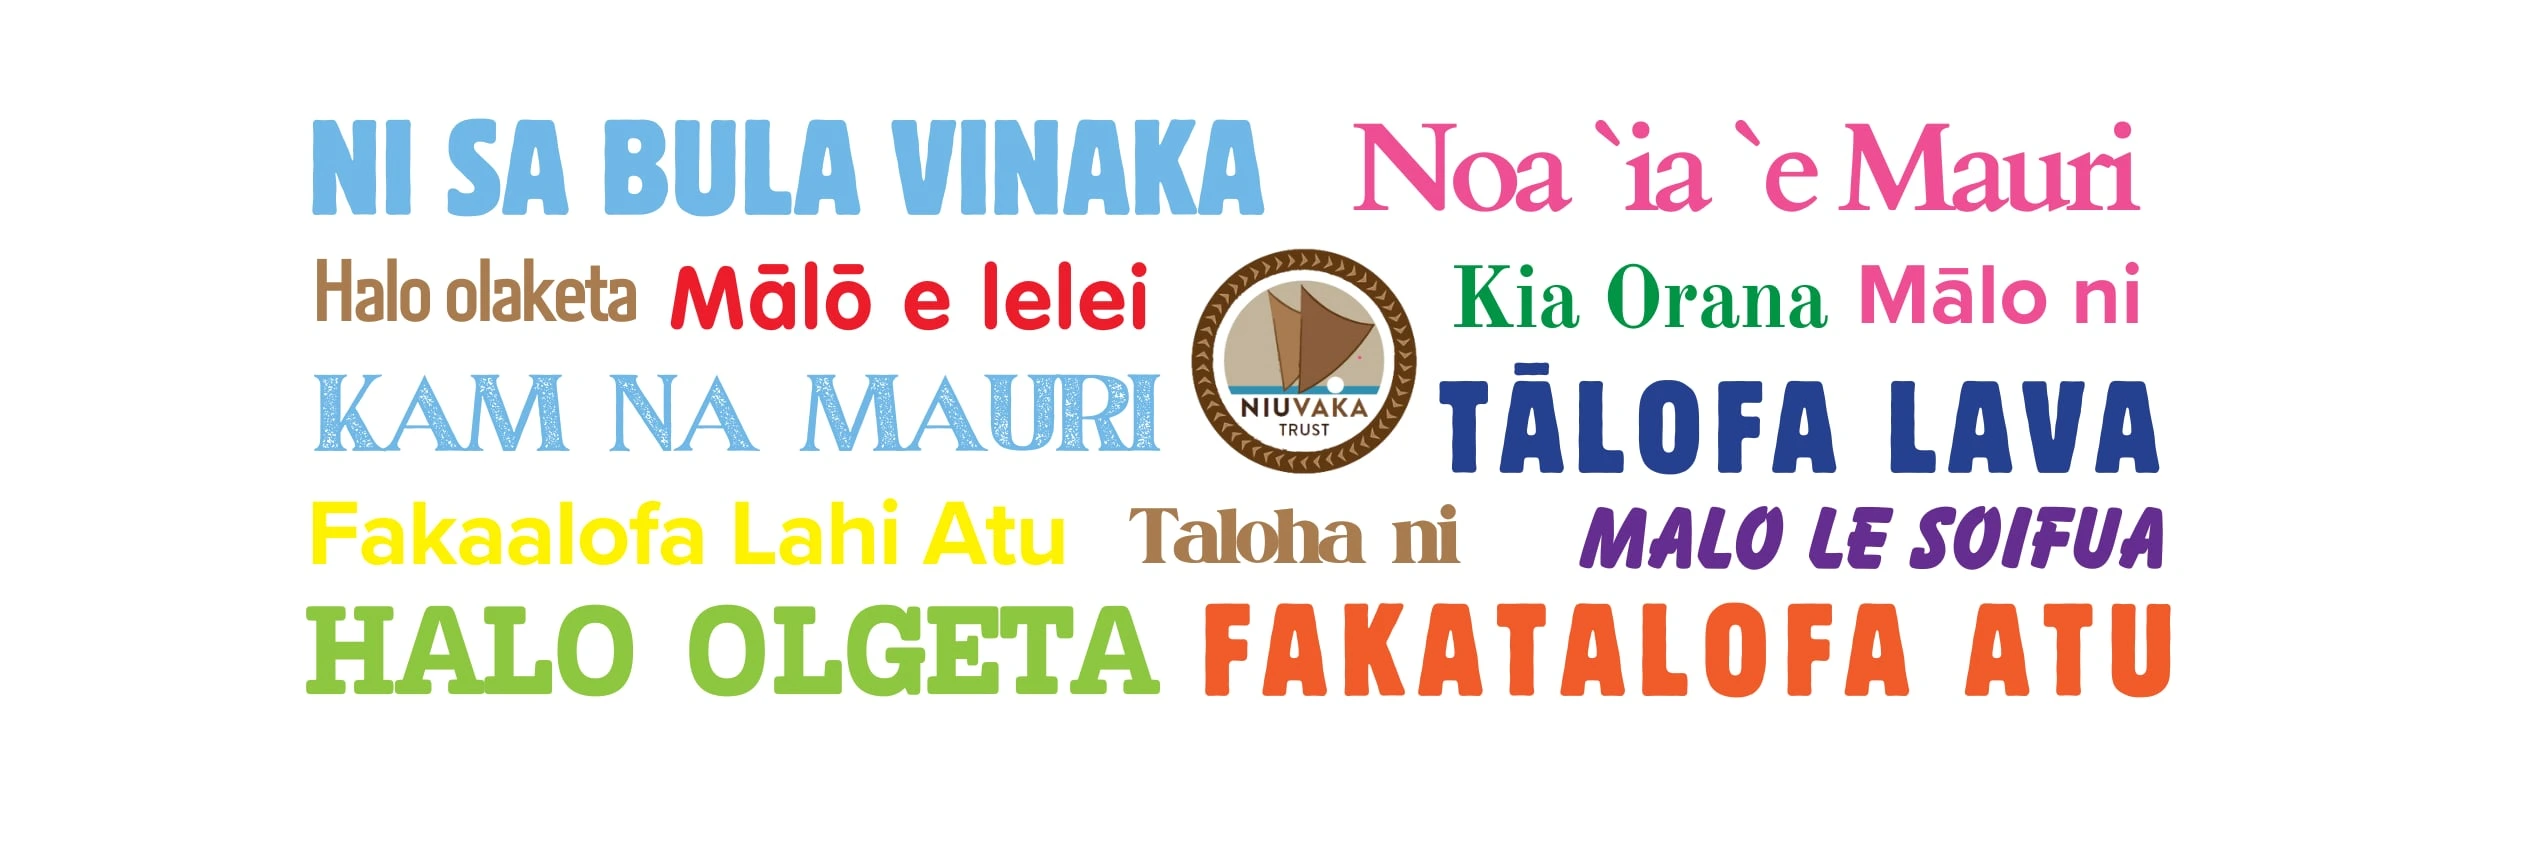
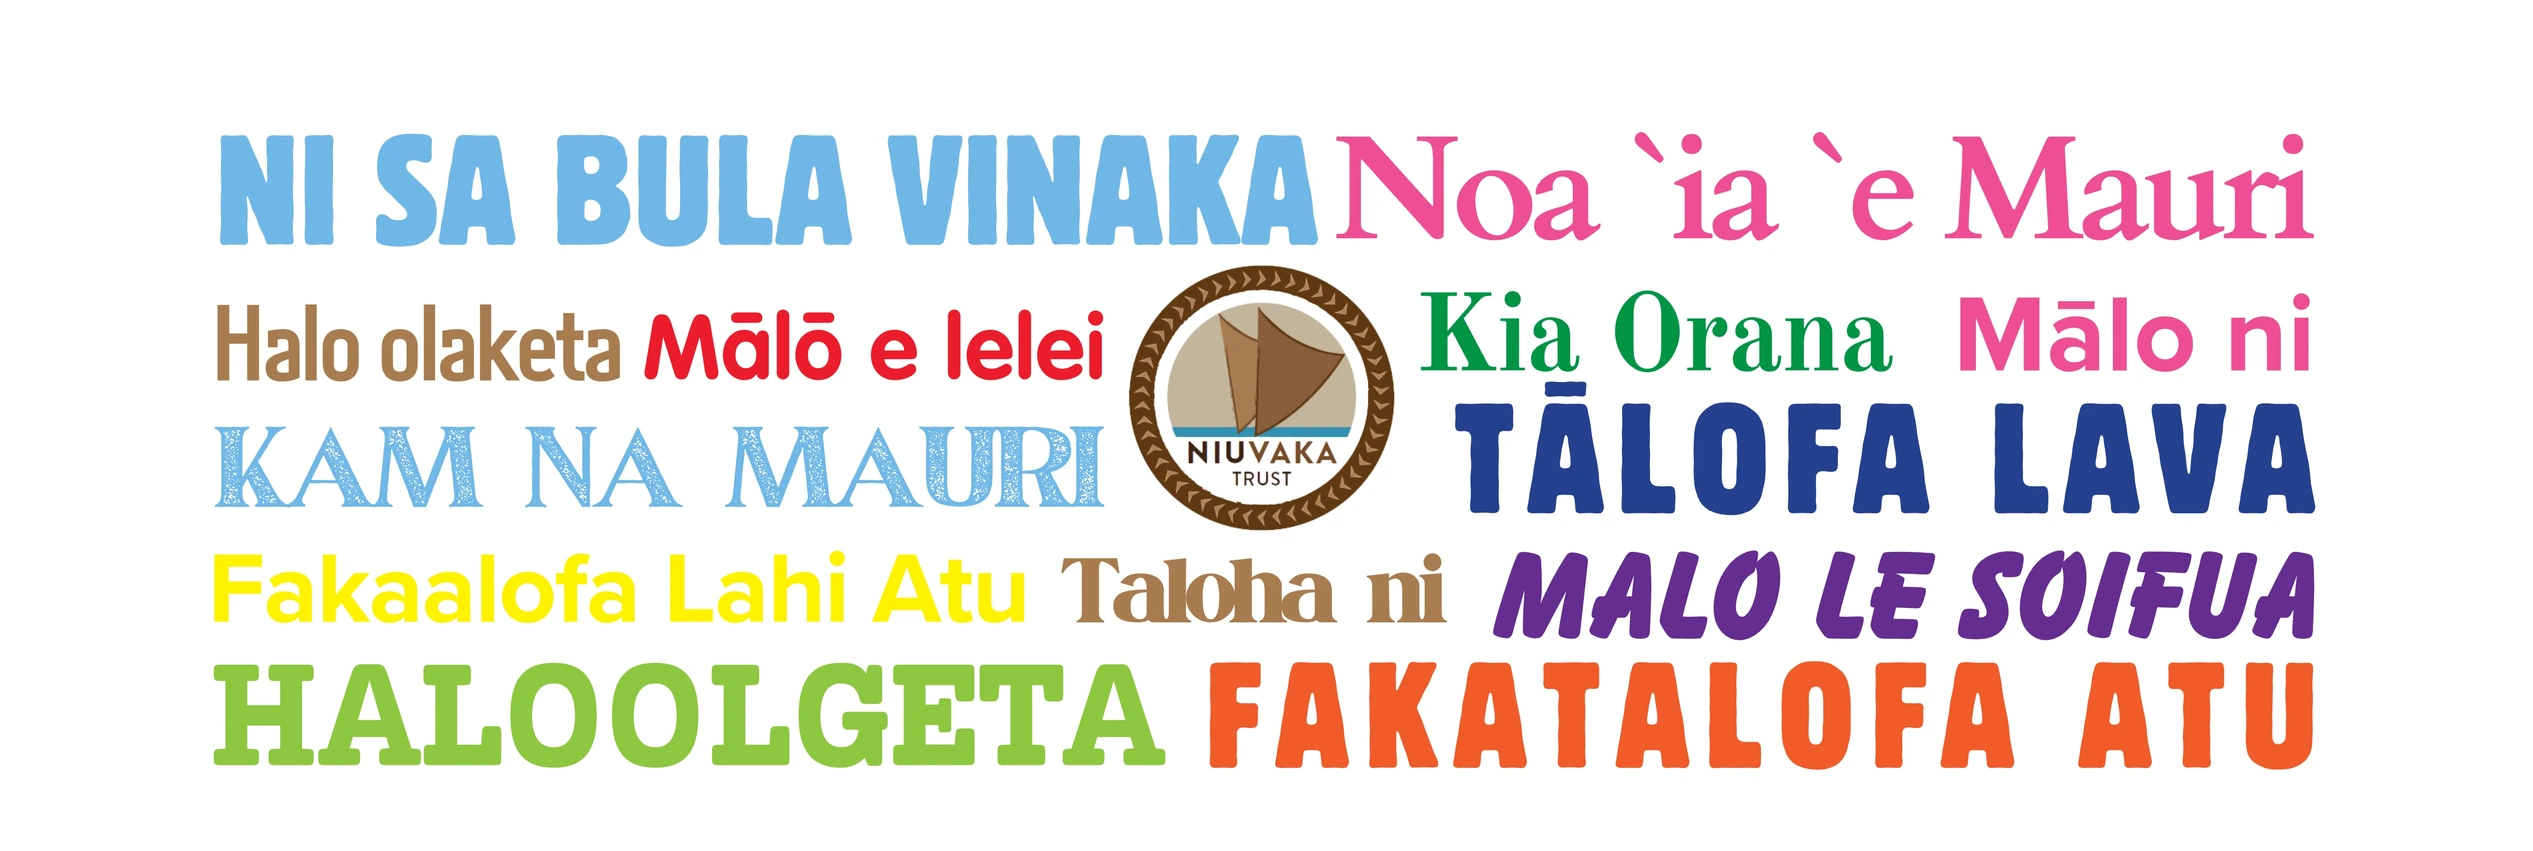
feat: update home

diff --git a/src/pages/index.tsx b/src/pages/index.tsx
@@ -37,7 +37,7 @@ export default function Home() {
             <img
               src="/texts.webp"
               alt="texts"
-              className="h-full w-full scale-125 object-center"
+              className="-mt-[1.5%] mb-2 h-full w-full scale-[1.15] object-center"
               loading="lazy"
             />
           </div>
@@ -48,11 +48,11 @@ export default function Home() {
             <img
               src="/sitting.webp"
               alt="sitting woman"
-              className="-mt-12 hidden object-cover lg:block lg:w-1/2"
+              className="-mt-8 hidden object-cover lg:block lg:w-1/2"
               loading="lazy"
             />
             <div className="flex flex-col lg:w-1/2">
-              <div className="flex flex-1 flex-col items-center justify-center space-y-8 bg-mint-500 p-8 text-center">
+              <div className="flex min-h-[200px] flex-1 flex-col items-center justify-center space-y-6 bg-mint-500 p-8 text-center">
                 <h2 className="text-2xl font-bold text-white lg:text-4xl">
                   Our Vision
                 </h2>
@@ -60,7 +60,7 @@ export default function Home() {
                   Tagata Pasifika: Thriving, Flourishing, Resilient
                 </p>
               </div>
-              <div className="flex flex-1 flex-col items-center justify-center space-y-8 bg-white p-8 text-center">
+              <div className="flex min-h-[200px] flex-1 flex-col items-center justify-center space-y-6 bg-white p-8 text-center">
                 <h2 className="text-2xl font-bold text-mint-500 lg:text-4xl">
                   Our Purpose
                 </h2>
@@ -69,7 +69,7 @@ export default function Home() {
                   families for the realisation of their aspirations
                 </p>
               </div>
-              <div className="flex flex-1 flex-col items-center justify-center space-y-8 bg-mint-500 p-8 text-center">
+              <div className="flex min-h-[200px] flex-1 flex-col items-center justify-center space-y-6 bg-mint-500 p-8 text-center">
                 <h2 className="text-2xl font-bold text-white lg:text-4xl">
                   Our Mission
                 </h2>
